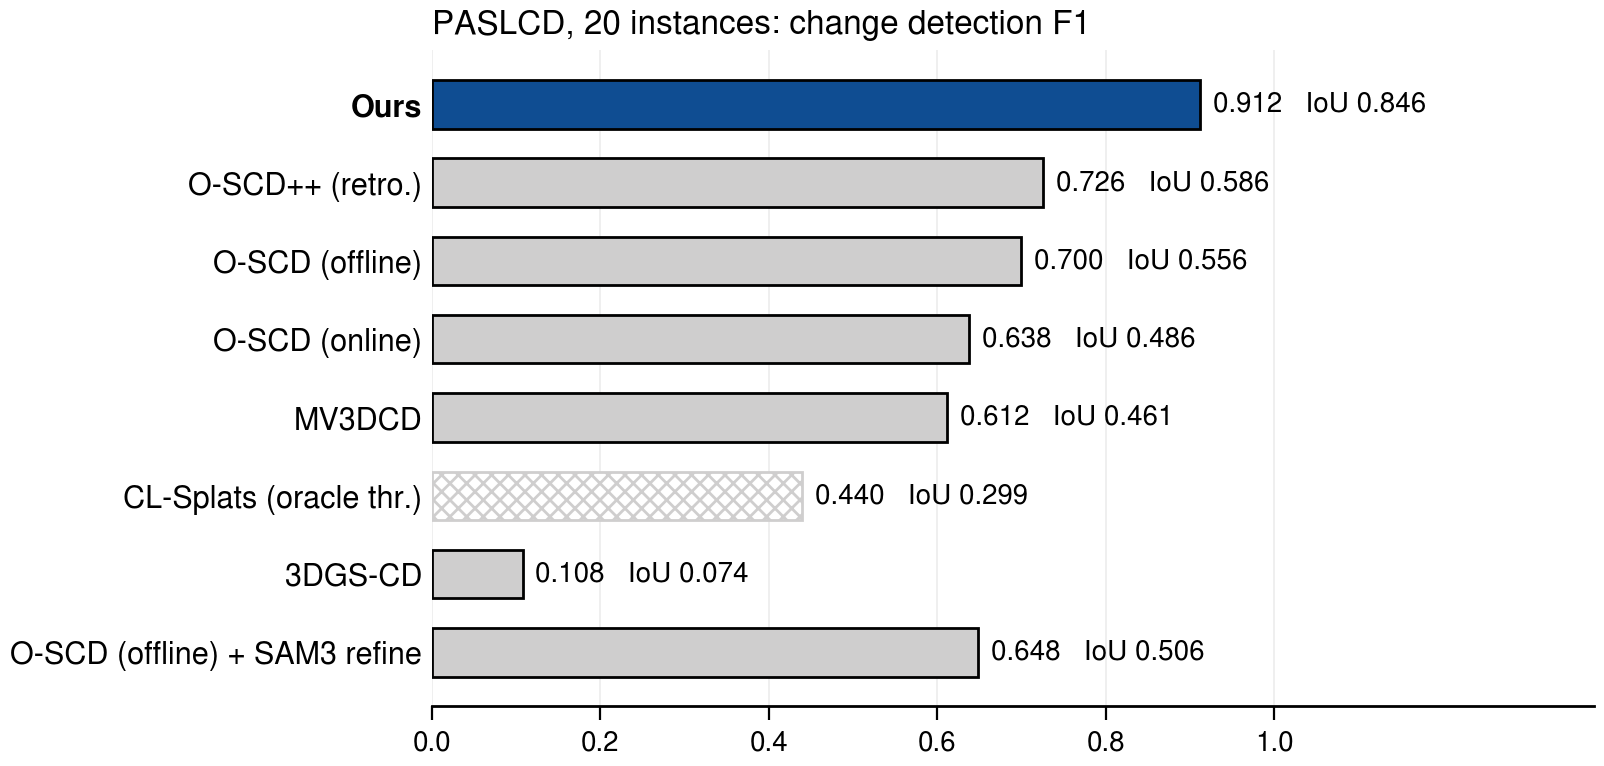
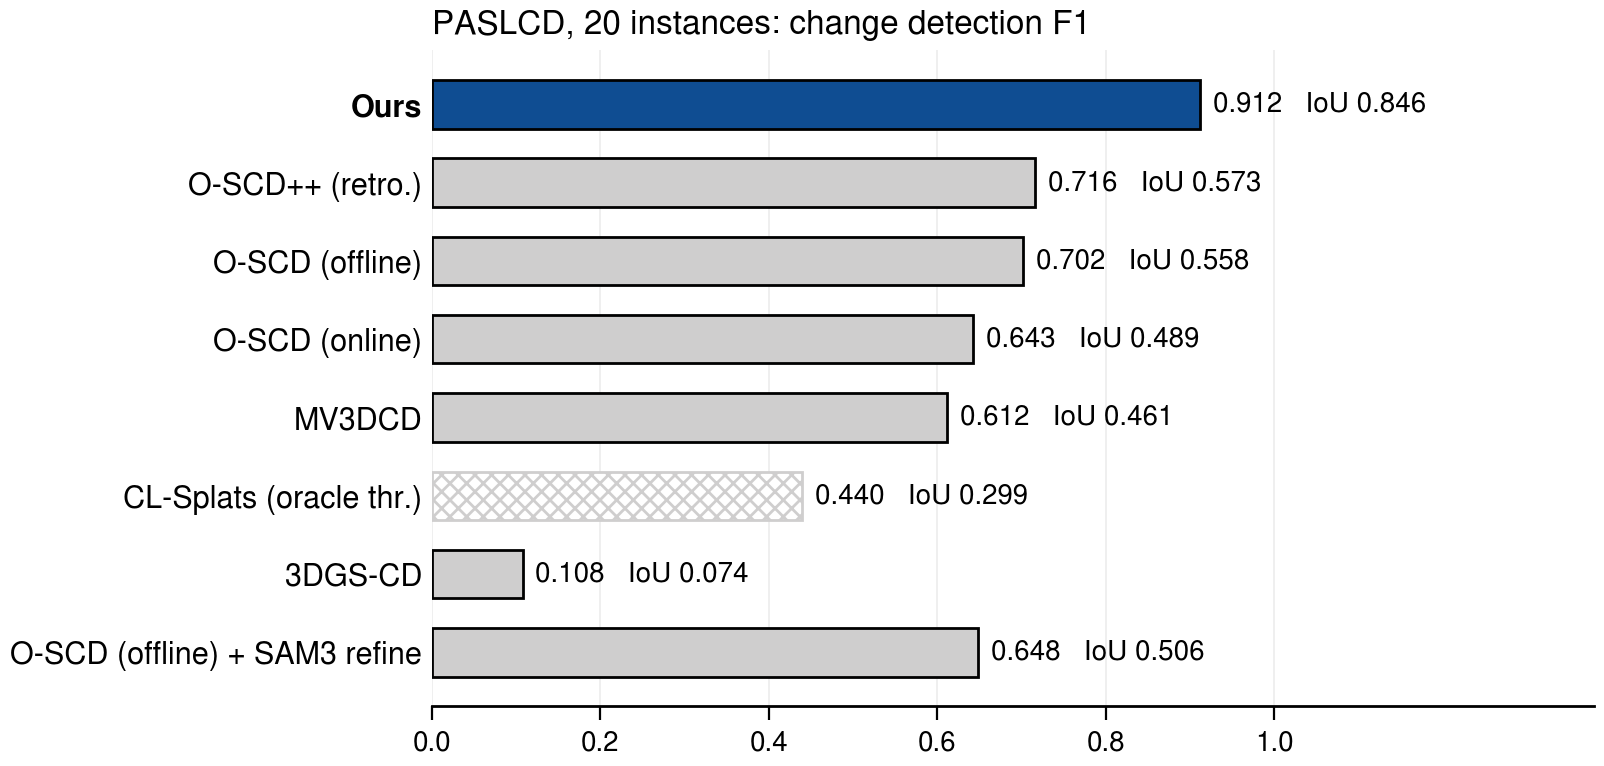
O-SCD rows rescored on all 20
Claude-Session: https://claude.ai/code/session_01RyCyMZFufMERPe9VwhcBVe

Changed region(s): [[0.6234, 0.2102, 0.8105, 0.2702], [0.5923, 0.4204, 0.7481, 0.4804], [0.6234, 0.3303, 0.7793, 0.3603]]

diff --git a/xyz/index.html b/xyz/index.html
@@ -39,7 +39,7 @@ sitemap: false
 
   <h2>Headline numbers (Nov 10)</h2>
   <ul>
-    <li><b>Change detection, F1:</b> PASLCD ours .912 vs O-SCD++ .726 (re-checking on 20) · SceneDiff .746 vs SceneDiff's method .533 ·
+    <li><b>Change detection, F1:</b> PASLCD ours .912 vs O-SCD++ .716 (all 20) · SceneDiff .746 vs SceneDiff's method .533 ·
       3DGS-CD all photos .787 vs O-SCD++ .655 · our one loss: 3DGS-CD held-out views .793 vs 3DGS-CD .834.</li>
     <li><b>Agent vs protocol (5 PASLCD scenes):</b> a bare agent (render + photo only) gets .837, already above O-SCD++ .745; our protocol adds +.064 (.901).
       Repeat run .892; a 4-minute splat instead of the 75-minute one: .887.</li>
